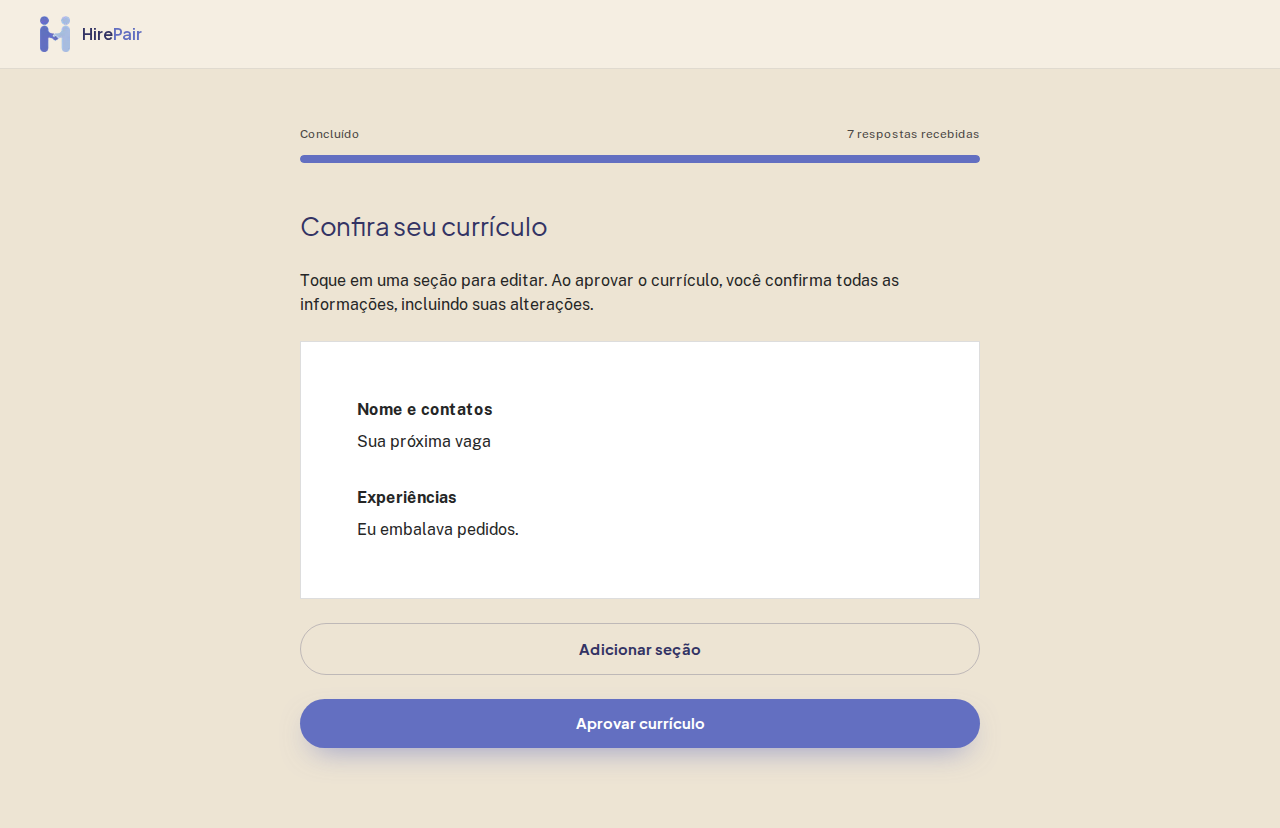
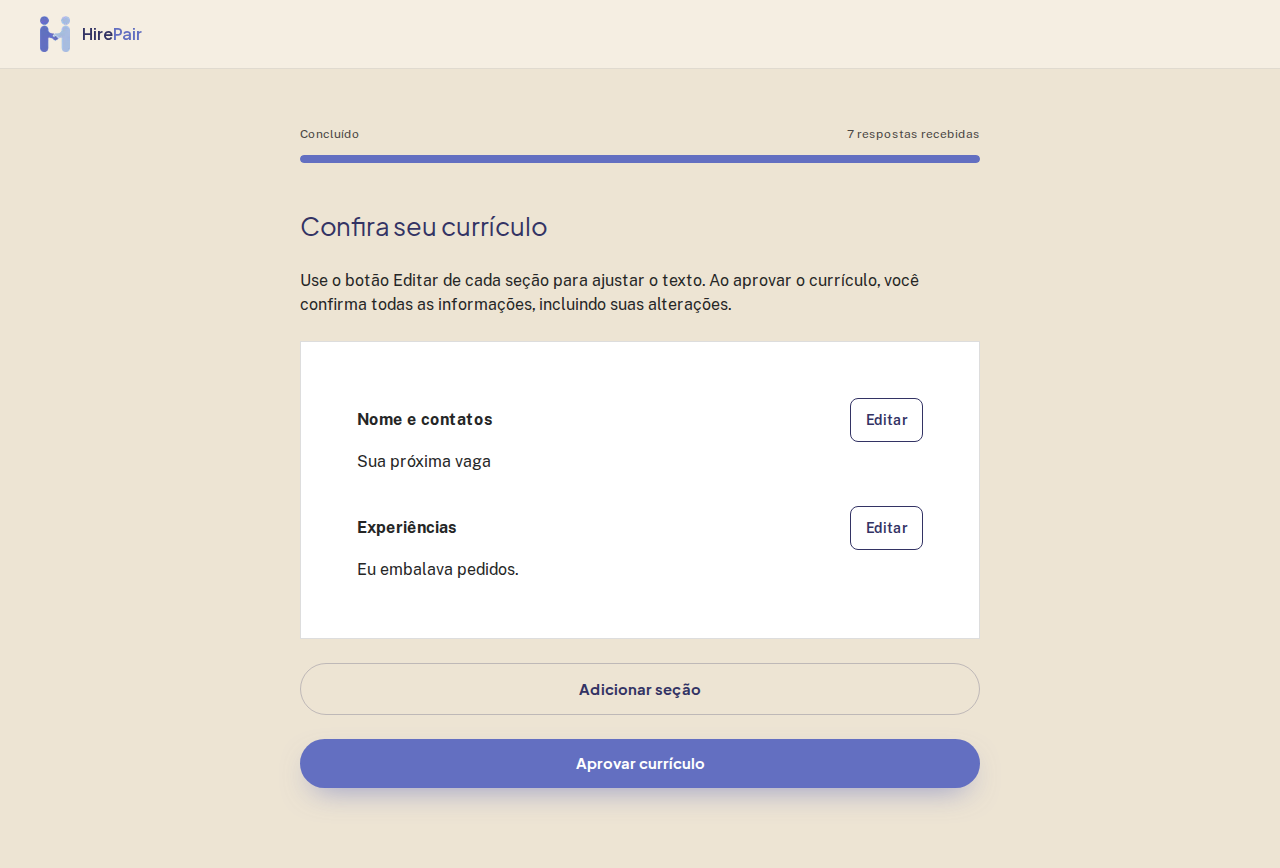
fix(18): exibir botão de edição em cada seção

diff --git a/apps/web/src/app/conversa/_components/resume-review.tsx b/apps/web/src/app/conversa/_components/resume-review.tsx
@@ -274,34 +274,44 @@ export function ResumeReview({
             <p>
               {writing.status === 'approved'
                 ? 'Você concluiu a revisão. Seu currículo está salvo neste aparelho.'
-                : 'Toque em uma seção para editar. Ao aprovar o currículo, você confirma todas as informações, incluindo suas alterações.'}
+                : 'Use o botão Editar de cada seção para ajustar o texto. Ao aprovar o currículo, você confirma todas as informações, incluindo suas alterações.'}
             </p>
             <article className="resume-document" aria-label="Currículo">
-              <button
-                className="resume-edit-block"
-                onClick={() => setEditing('profile')}
-                disabled={!profileReady}
-                aria-label="Editar nome e contatos"
-              >
-                <strong>{profile.name || 'Nome e contatos'}</strong>
-                <span>
+              <section className="resume-edit-block">
+                <div className="resume-section-heading">
+                  <strong>{profile.name || 'Nome e contatos'}</strong>
+                  <button
+                    type="button"
+                    className="resume-edit-button"
+                    onClick={() => setEditing('profile')}
+                    disabled={!profileReady}
+                    aria-label="Editar nome e contatos"
+                  >
+                    Editar
+                  </button>
+                </div>
+                <p>
                   {[profile.professionalTitle, profile.email, profile.phone]
                     .filter(Boolean)
                     .join(' · ')}
-                </span>
-              </button>
+                </p>
+              </section>
               {writing.draft.sections.map((section) => (
-                <section key={section.id}>
-                  <button
-                    className="resume-edit-block"
-                    aria-label={`Editar ${section.title}`}
-                    onClick={() => setEditing(structuredClone(section))}
-                  >
+                <section key={section.id} className="resume-edit-block">
+                  <div className="resume-section-heading">
                     <h2>{section.title}</h2>
-                    {section.units.map((unit) => (
-                      <p key={unit.id}>{unit.text}</p>
-                    ))}
-                  </button>
+                    <button
+                      type="button"
+                      className="resume-edit-button"
+                      aria-label={`Editar ${section.title}`}
+                      onClick={() => setEditing(structuredClone(section))}
+                    >
+                      Editar
+                    </button>
+                  </div>
+                  {section.units.map((unit) => (
+                    <p key={unit.id}>{unit.text}</p>
+                  ))}
                 </section>
               ))}
             </article>

diff --git a/apps/web/src/app/conversa/_components/resume-review.test.tsx b/apps/web/src/app/conversa/_components/resume-review.test.tsx
@@ -355,3 +355,18 @@ it.each([true, false])('returns missing evidence to the motor, guided=%s', async
     expect.any(Function),
   );
 });
+it('shows a visible Editar action on each section and opens the filled section editor', async () => {
+  render(<Harness initial={reviewingSession()} />);
+  const edit = screen.getByRole('button', { name: 'Editar Resumo' });
+  expect(edit).toHaveTextContent(/^Editar$/);
+  const profileEdit = screen.getByRole('button', { name: 'Editar nome e contatos' });
+  expect(profileEdit).toHaveTextContent(/^Editar$/);
+  fireEvent.click(edit);
+  expect(screen.getByLabelText('Título da seção')).toHaveValue('Resumo');
+  expect(screen.getByLabelText('Conteúdo')).toHaveValue('Atendeu clientes');
+  fireEvent.click(screen.getByRole('button', { name: 'Cancelar' }));
+  fireEvent.click(screen.getByRole('button', { name: 'Adicionar seção' }));
+  expect(screen.getByLabelText('Título da seção')).toHaveValue('');
+  expect(screen.getByLabelText('Conteúdo')).toHaveValue('');
+  await act(async () => {});
+});

diff --git a/apps/web/src/app/conversa/conversa.css b/apps/web/src/app/conversa/conversa.css
@@ -1027,10 +1027,8 @@ body:has(.guided-interview) .analytics-consent {
   padding: 0.5rem;
   border-radius: 0.25rem;
 }
-.resume-edit-block:hover {
-  outline: 1px solid var(--color-navy);
-}
-.resume-edit-block:focus-visible {
+
+.resume-edit-button:focus-visible {
   outline: 2px solid var(--color-navy);
   outline-offset: 3px;
 }
@@ -1049,4 +1047,30 @@ body:has(.guided-interview) .analytics-consent {
   background: white;
   border: 1px solid #807a72;
   border-radius: 0.5rem;
+}
+
+.resume-section-heading {
+  display: flex;
+  align-items: baseline;
+  justify-content: space-between;
+  gap: 1rem;
+}
+.resume-edit-button {
+  flex-shrink: 0;
+  min-height: 44px;
+  padding: 0.5rem 0.9rem;
+  border: 1px solid var(--color-navy);
+  border-radius: 0.5rem;
+  color: var(--color-navy);
+  font-weight: 600;
+  font-size: 0.875rem;
+  cursor: pointer;
+}
+.resume-edit-button:hover {
+  background: var(--color-navy);
+  color: white;
+}
+.resume-edit-button:disabled {
+  cursor: wait;
+  opacity: 0.5;
 }

diff --git a/apps/web/e2e/interview.spec.ts b/apps/web/e2e/interview.spec.ts
@@ -263,7 +263,11 @@ for (const withResume of [false, true])
       fullPage: true,
       animations: 'disabled',
     });
-    await page.getByRole('button', { name: 'Editar Experiências' }).click();
+    const editExperience = page.getByRole('button', { name: 'Editar Experiências' });
+    await expect(editExperience).toHaveText('Editar');
+    await editExperience.click();
+    await expect(page.getByLabel('Título da seção')).toHaveValue('Experiências');
+    await expect(page.getByRole('textbox', { name: 'Conteúdo', exact: true })).not.toHaveValue('');
     await page
       .getByRole('textbox', { name: 'Conteúdo', exact: true })
       .fill('Atendeu clientes no comércio local.');

diff --git a/docs/backend/evidence/18-validation.md b/docs/backend/evidence/18-validation.md
@@ -17,7 +17,7 @@ permanecem separados das alterações manuais. Não há conta, migration ou expo
 - `npm run lint`: aprovado.
 - `npm run format:check`: aprovado.
 - `npm run typecheck`: aprovado.
-- `npm run test`: 864 testes aprovados em 92 suítes.
+- `npm run test`: 865 testes aprovados em 92 suítes.
 - `npm run build`: API, web e domínio compilados.
 - `npm run test:e2e -w apps/web`: 17 cenários aprovados no Chromium.
 - `npm run test:operational -w apps/api`: HTTP e Redis descartável aprovados;
@@ -57,6 +57,8 @@ avaliações de qualidade do modelo em produção.
 - [Currículo aprovado no desktop](18-approved-desktop.png)
 - [Currículo aprovado no celular](18-approved-mobile.png)
 
+Cada seção apresenta um botão Editar visível. Ele abre o mesmo editor de inclusão,
+com título e conteúdo preenchidos; adicionar seção abre os campos vazios.
 Campos têm labels; seções são acionáveis por teclado e o foco acompanha o título
 na troca de visão. O editor retorna à conferência com salvamento local, sem IA.
 
